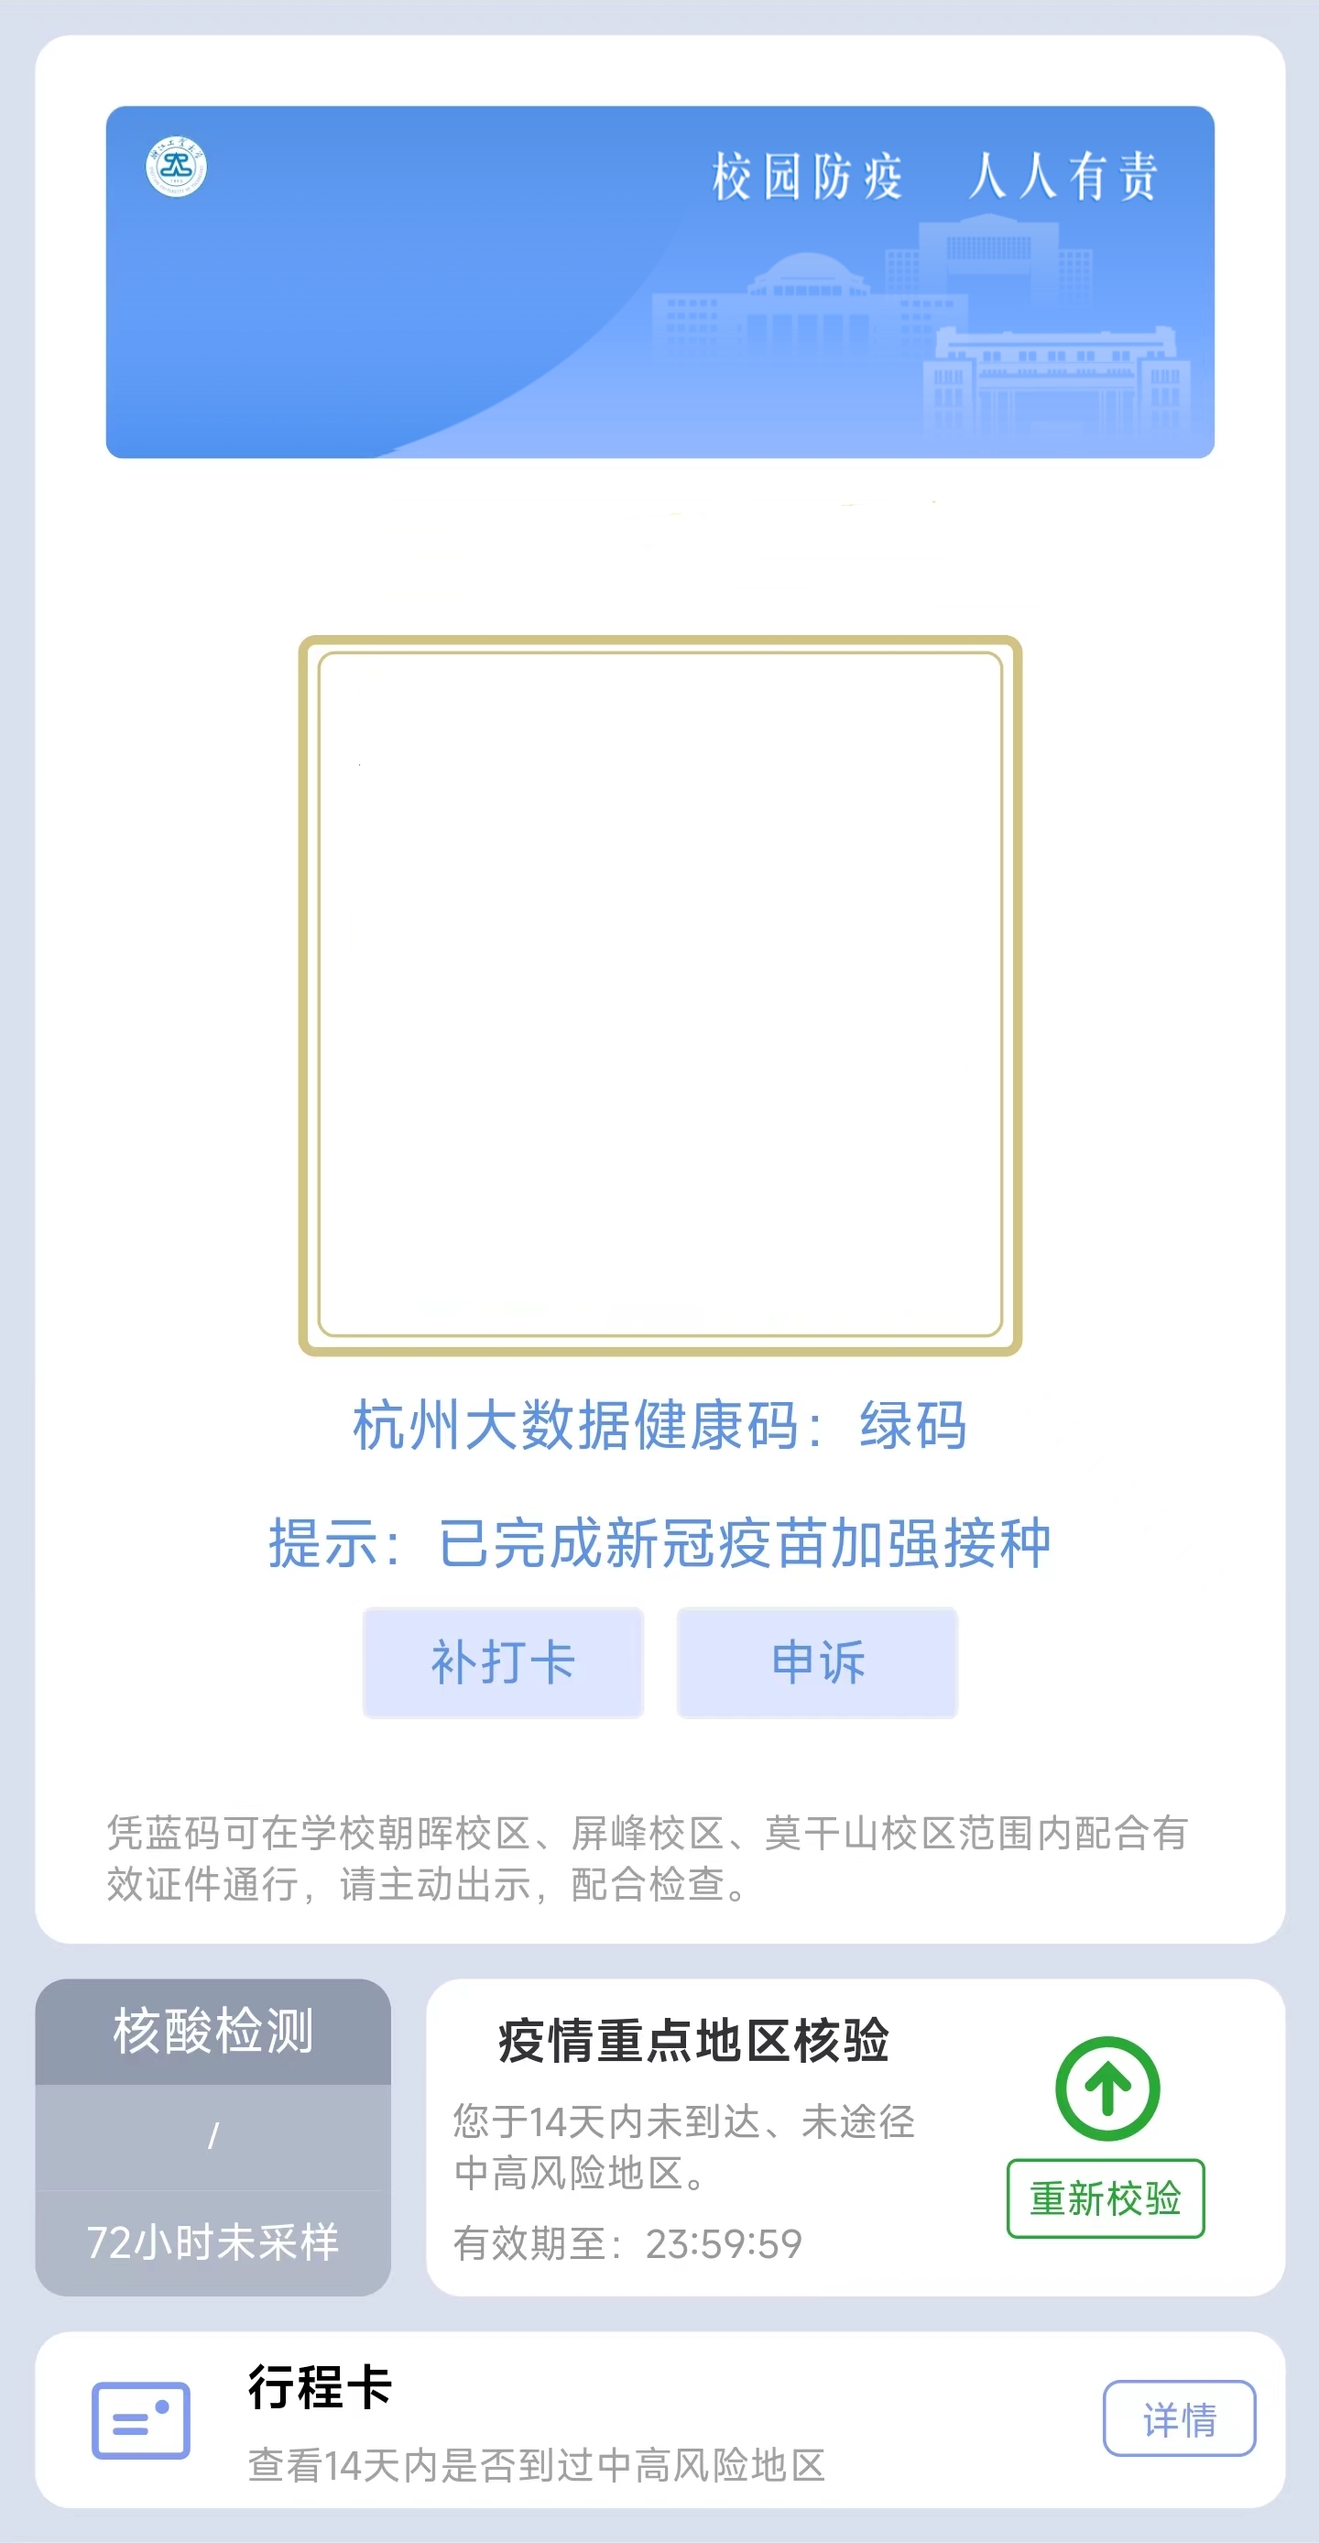
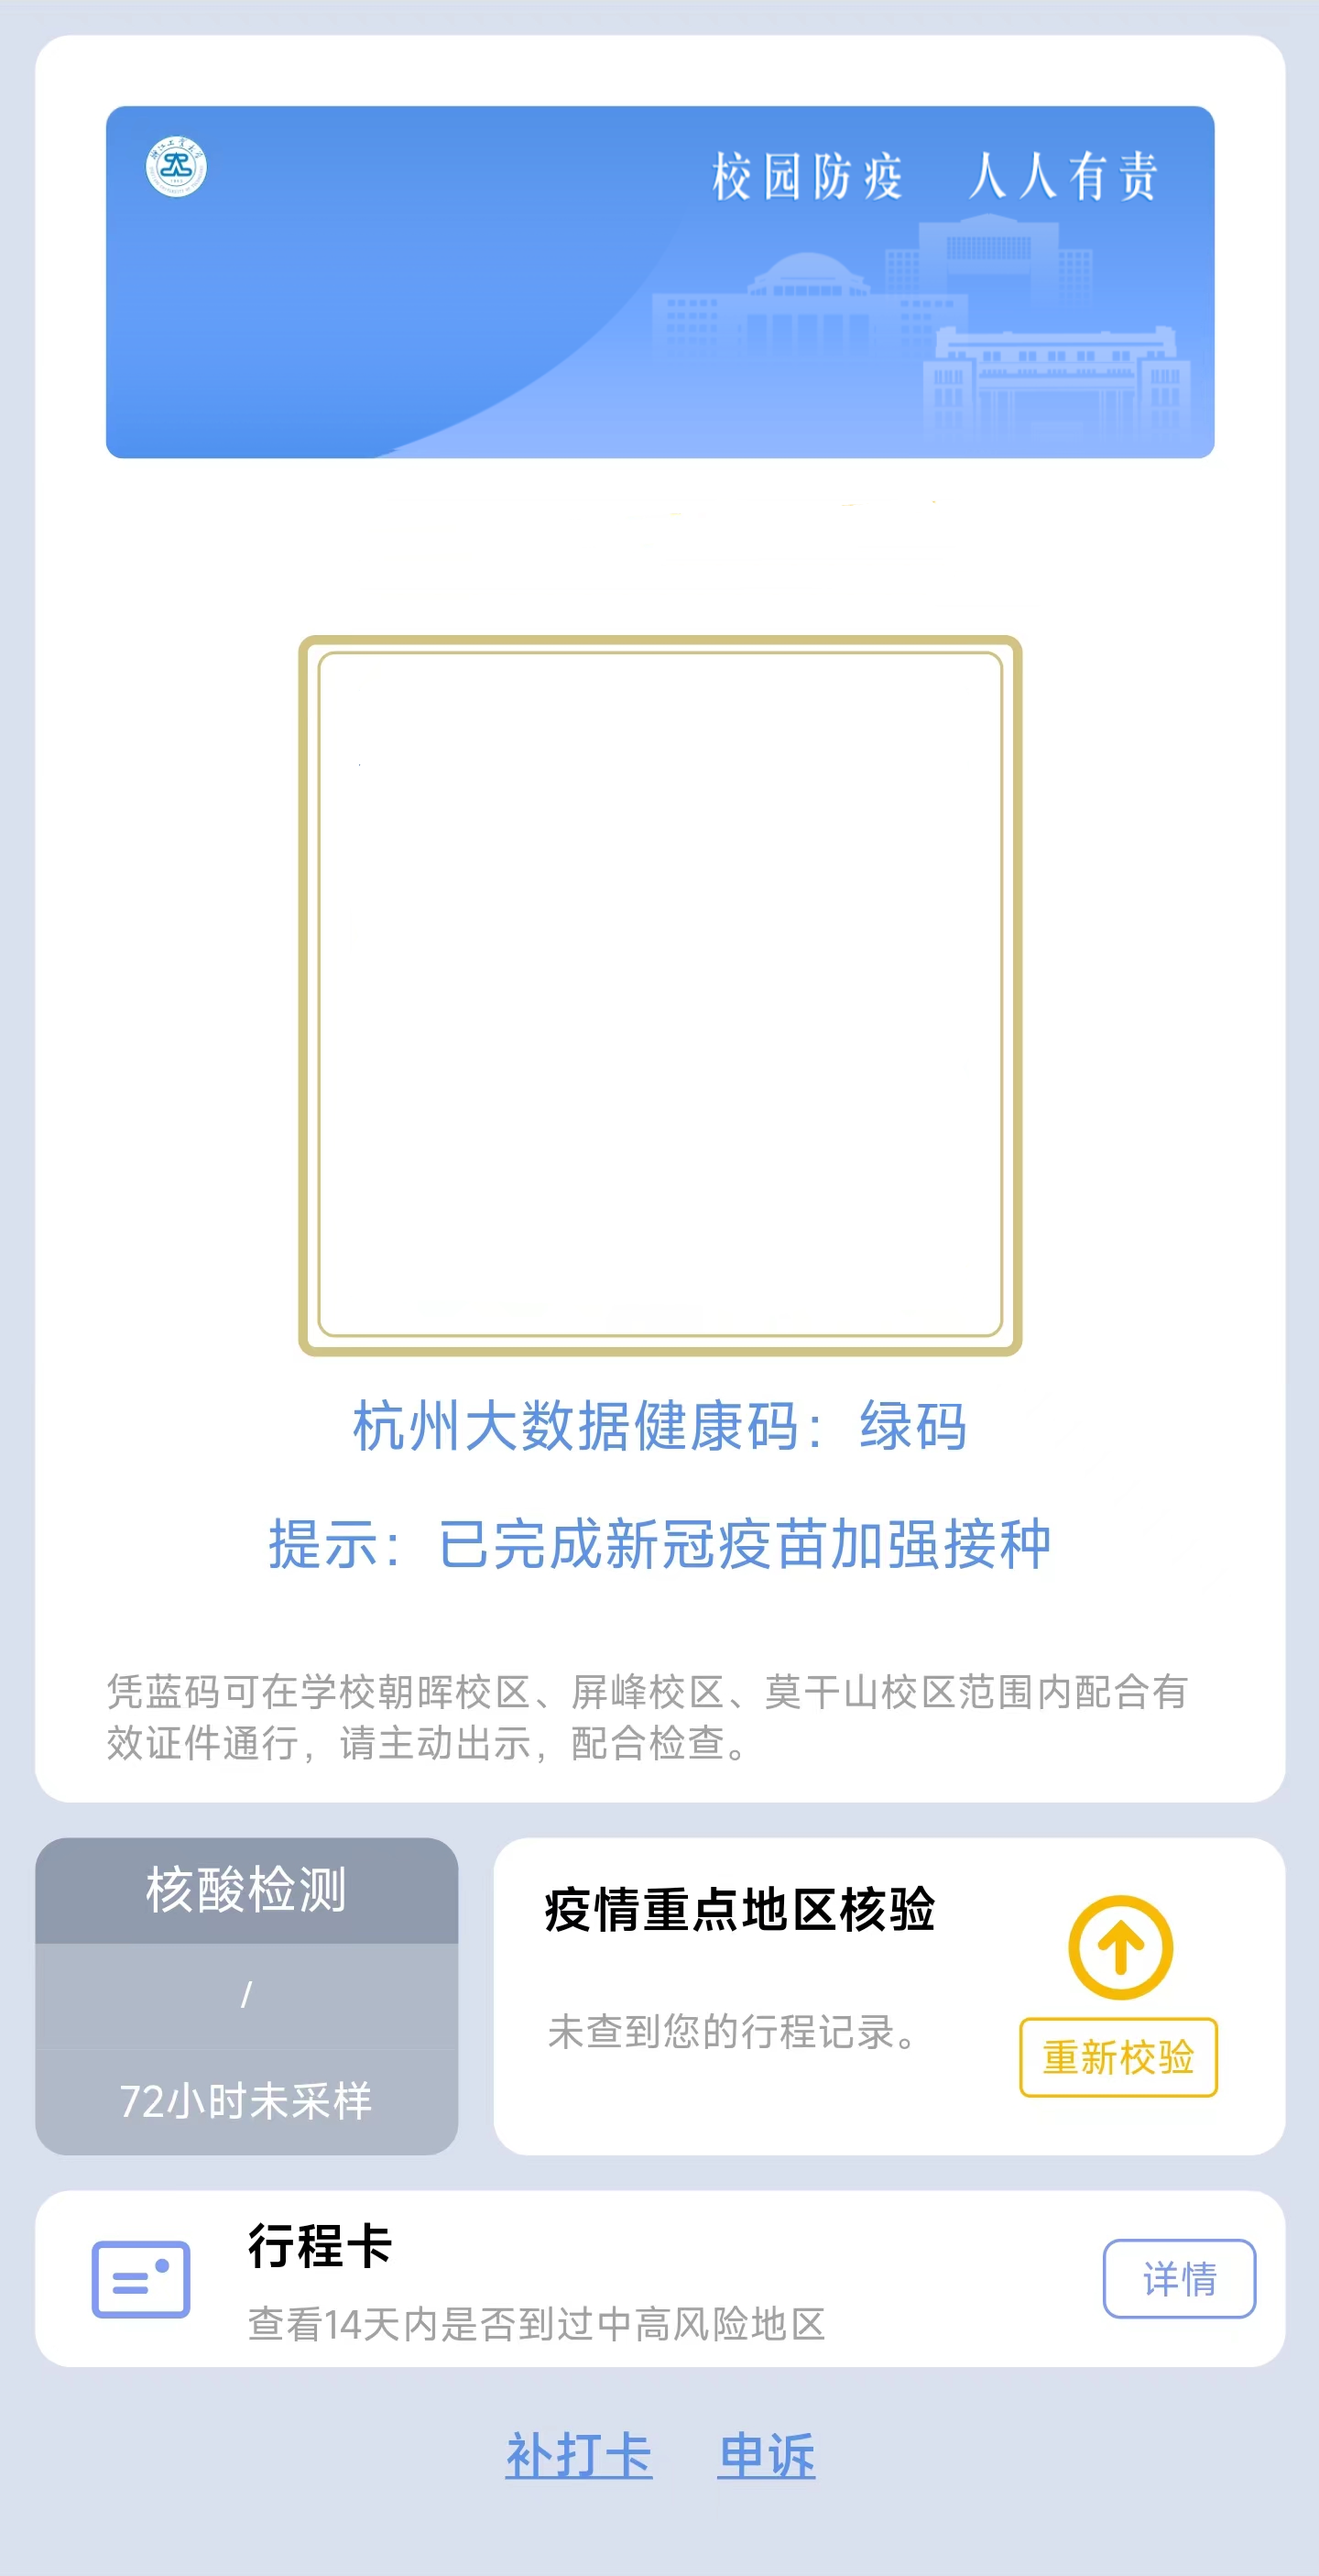
update

diff --git a/index.html b/index.html
@@ -3,7 +3,7 @@
 
 <head>
     <meta charset="utf-8">
-    <title>通行码领取</title>
+    <title>浙江工业大学校园通行码</title>
     <style type="text/css">
         body{
             margin: 0;
@@ -91,23 +91,23 @@
 
         .appeal {
             position: fixed;
-            top: 1206px;
-            left: 283px;
-            width: 196px;
+            top: 1618px;
+            left: 351px;
+            width: 136px;
             height: 73px;
         }
 
         .complexCode {
             position: fixed;
-            top: 1204px;
+            top: 1621px;
             left: 514px;
-            width: 200px;
+            width: 111px;
             height: 76px;
         }
 
         .travelCard {
             position: fixed;
-            top: 1734px;
+            top: 1460px;
             left: 178px;
             width: 775px;
             height: 130px;
@@ -205,7 +205,7 @@
     </span>
     </div>
 </div>
-<div style="position: fixed;color: white;font-size: 31px;left: 175px;top: 110px;font-family: sans-serif;font-weight: 500">
+<div style="position: absolute;color: white;font-size: 31px;left: 175px;top: 110px;font-family: sans-serif;font-weight: 500">
     校园通行证
 </div>
 <div class="time-container container">
